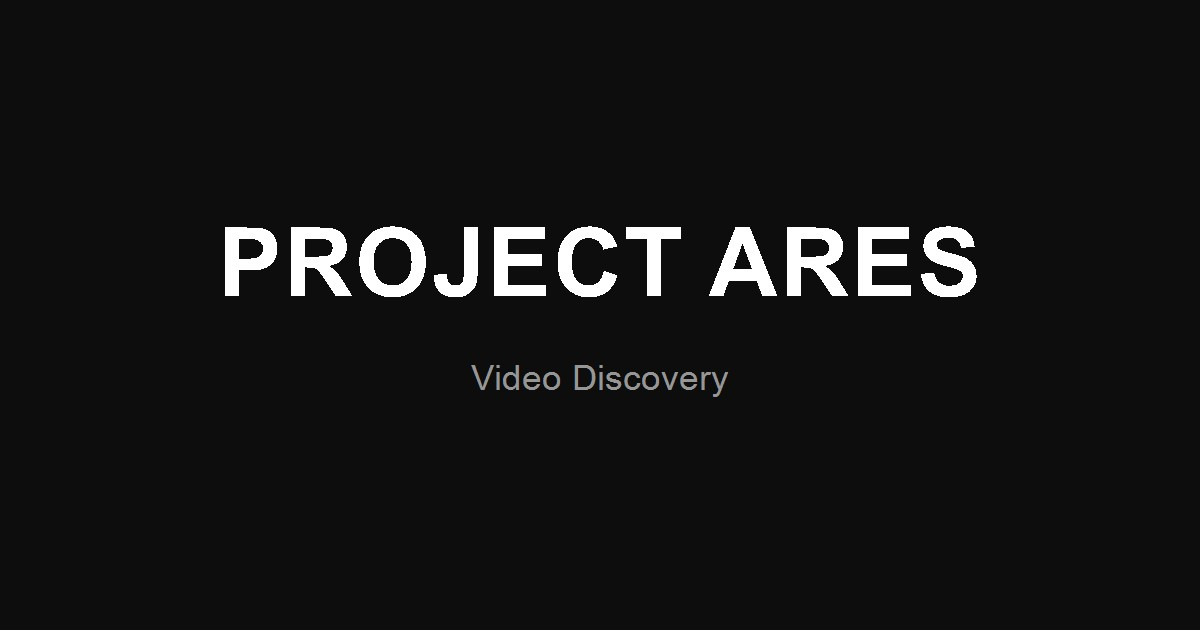
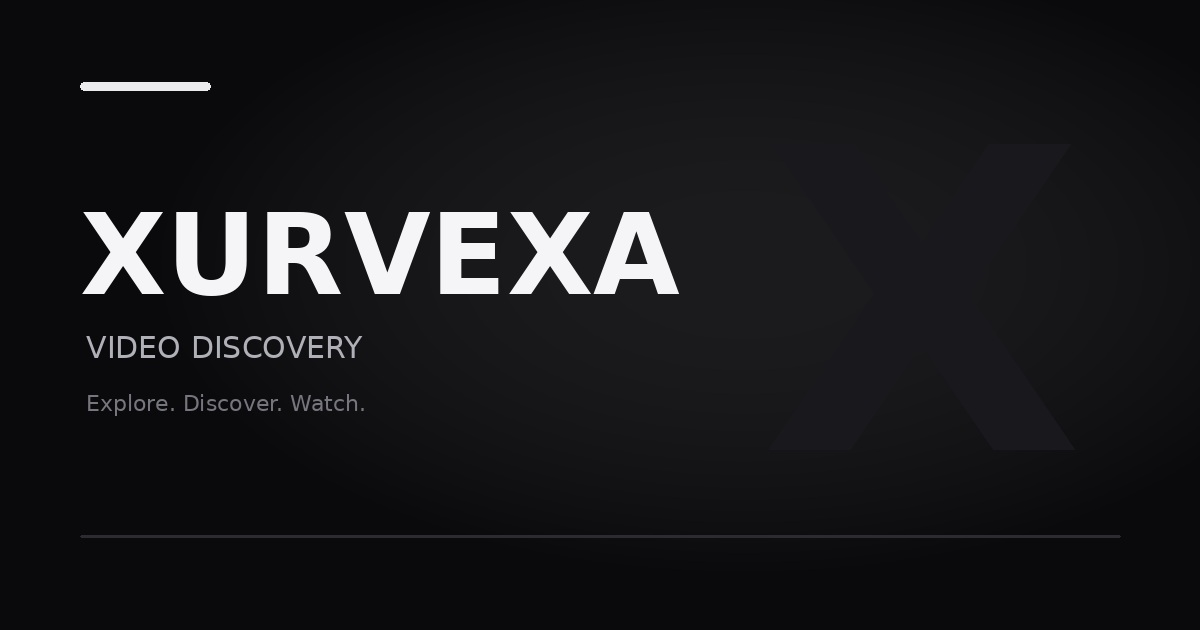
VIDEO-015: rebrand public application as Xurvexa

diff --git a/backend/resources/views/layouts/public.blade.php b/backend/resources/views/layouts/public.blade.php
@@ -10,7 +10,7 @@
         content="width=device-width, initial-scale=1.0"
     >
 
-    <title>{{ $pageTitle ?? 'Project Ares' }}</title>
+    <title>{{ $pageTitle ?? 'Xurvexa' }}</title>
 
     <meta
         name="description"
@@ -27,9 +27,20 @@
         href="{{ $canonicalUrl ?? url()->current() }}"
     >
 
+    <link
+        rel="icon"
+        type="image/svg+xml"
+        href="{{ asset('favicon.svg') }}"
+    >
+
+    <meta
+        name="theme-color"
+        content="#111111"
+    >
+
     <meta
         property="og:site_name"
-        content="Project Ares"
+        content="Xurvexa"
     >
 
     <meta
@@ -39,7 +50,7 @@
 
     <meta
         property="og:title"
-        content="{{ $pageTitle ?? 'Project Ares' }}"
+        content="{{ $pageTitle ?? 'Xurvexa' }}"
     >
 
     <meta
@@ -59,7 +70,7 @@
 
     <meta
         property="og:image:alt"
-        content="{{ $ogImageAlt ?? 'Project Ares' }}"
+        content="{{ $ogImageAlt ?? 'Xurvexa' }}"
     >
 
     <meta
@@ -69,7 +80,7 @@
 
     <meta
         name="twitter:title"
-        content="{{ $pageTitle ?? 'Project Ares' }}"
+        content="{{ $pageTitle ?? 'Xurvexa' }}"
     >
 
     <meta
@@ -210,12 +221,6 @@
         .main-nav a:hover {
             color: #fff;
         }
-
-        /*
-        |--------------------------------------------------------------------------
-        | Shared Video Card
-        |--------------------------------------------------------------------------
-        */
 
         .video-card {
             min-width: 0;
@@ -374,12 +379,6 @@
 
             font-size: 12px;
         }
-
-        /*
-        |--------------------------------------------------------------------------
-        | Compact Video Card
-        |--------------------------------------------------------------------------
-        */
 
         .video-card--compact .video-thumbnail {
             border-radius: 8px;

diff --git a/backend/resources/views/videos/index.blade.php b/backend/resources/views/videos/index.blade.php
@@ -10,14 +10,14 @@
         $pageTitle =
             'Search: ' .
             $search .
-            ' | Project Ares';
+            ' | Xurvexa';
     } elseif ($activeCategory) {
         $pageTitle =
             $activeCategory->name .
-            ' Videos | Project Ares';
+            ' Videos | Xurvexa';
     } else {
         $pageTitle =
-            'Videos | Project Ares';
+            'Videos | Xurvexa';
     }
 
     if ($activeCategory) {
@@ -25,10 +25,10 @@
             $activeCategory->description
                 ?: 'Browse ' .
                     $activeCategory->name .
-                    ' videos on Project Ares.';
+                    ' videos on Xurvexa.';
     } else {
         $pageDescription =
-            'Browse videos on Project Ares. Search, sort and explore available video categories.';
+            'Browse videos on Xurvexa. Search, sort and explore available video categories.';
     }
 
     $canonicalParameters = [];
@@ -78,7 +78,7 @@
         ?: asset('images/og-default.jpg');
 
     $ogImageAlt =
-        ($activeCategory?->name ?? 'Project Ares') .
+        ($activeCategory?->name ?? 'Xurvexa') .
         ' video thumbnail';
 
     $showHeaderSearch = false;

diff --git a/backend/resources/views/home.blade.php b/backend/resources/views/home.blade.php
@@ -1,9 +1,9 @@
 @php
     $pageTitle =
-        'Project Ares | Video Discovery';
+        'Xurvexa | Video Discovery';
 
     $pageDescription =
-        'Browse the latest videos, explore categories and watch embedded content from external video sources on Project Ares.';
+        'Browse the latest videos, explore categories and watch embedded content from external video sources on Xurvexa.';
 
     $canonicalUrl =
         route('home');
@@ -16,7 +16,7 @@
         ?: asset('images/og-default.jpg');
 
     $ogImageAlt =
-        'Project Ares video discovery';
+        'Xurvexa video discovery';
 
     $robotsContent =
         app()->environment('production')
@@ -278,7 +278,7 @@
     <section class="hero">
 
         <h1>
-            Project Ares
+            Xurvexa
         </h1>
 
         <p>
@@ -468,7 +468,7 @@
 
 
     <footer class="footer">
-        Project Ares
+        Xurvexa
     </footer>
 
 </main>

diff --git a/backend/resources/views/partials/site-header.blade.php b/backend/resources/views/partials/site-header.blade.php
@@ -5,8 +5,9 @@
         <a
             class="logo"
             href="{{ route('home') }}"
+            aria-label="Xurvexa home"
         >
-            PROJECT <span>ARES</span>
+            XUR<span>VEXA</span>
         </a>
 
         @if($showSearch ?? false)
@@ -32,7 +33,10 @@
 
         @endif
 
-        <nav class="main-nav">
+        <nav
+            class="main-nav"
+            aria-label="Main navigation"
+        >
 
             <a href="{{ route('home') }}">
                 Home

diff --git a/backend/app/Filament/Resources/Videos/Schemas/VideoForm.php b/backend/app/Filament/Resources/Videos/Schemas/VideoForm.php
@@ -40,7 +40,7 @@ class VideoForm
                     ->maxLength(2048)
                     ->columnSpanFull()
                     ->helperText(
-                        'External embed URL. The video file is not uploaded to Project Ares.'
+                        'External embed URL. The video file is not uploaded to Xurvexa.'
                     ),
 
                 TextInput::make('thumbnail')

diff --git a/backend/resources/views/videos/show.blade.php b/backend/resources/views/videos/show.blade.php
@@ -1,13 +1,13 @@
 @php
     $pageTitle =
         $video->title .
-        ' | Project Ares';
+        ' | Xurvexa';
 
     $rawDescription =
         $video->description
             ?: 'Watch ' .
                 $video->title .
-                ' on Project Ares.';
+                ' on Xurvexa.';
 
     $pageDescription =
         \Illuminate\Support\Str::limit(
